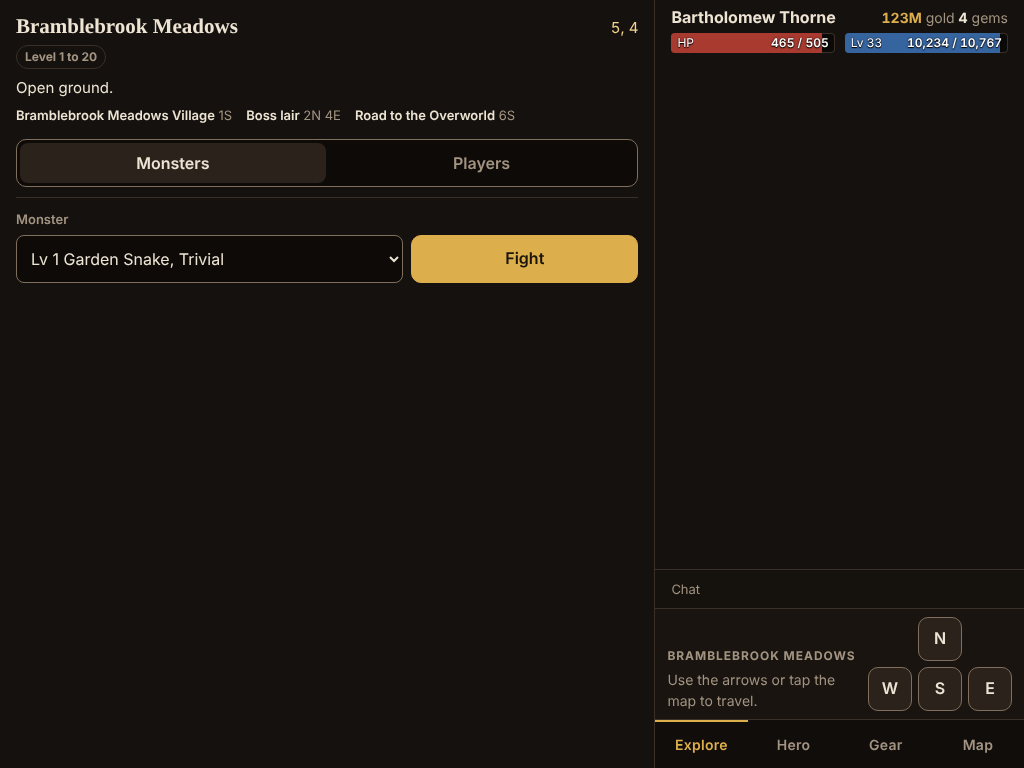
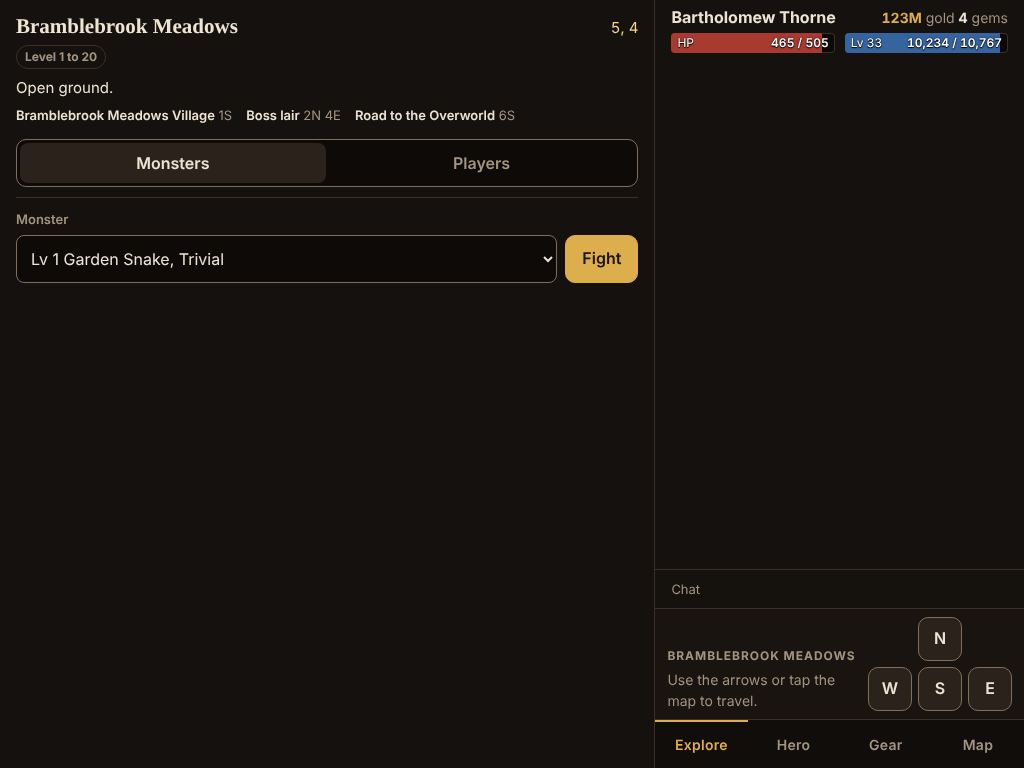
GP-1 F1: Fight beside the drop-down at every width
On Windows Chromium the wrapped picker (150px) no longer fit in view at
320x640 (CI, responsive AC-1). One row is 98px. After evidence
re-captured; report deviation 4 updated.

Claude-Session: https://claude.ai/code/session_01Wy1pzWMqgqFTgTAy5Pj7h6

Changed region(s): [[0.375, 0.2812, 0.625, 0.375]]

diff --git a/public/css/style.css b/public/css/style.css
@@ -194,13 +194,14 @@ p { margin: 0 0 8px; }
 .pick { padding: var(--space-3) 0; border-top: 1px solid var(--line); }
 .rows + .pick, .town-calm + .pick { border-top: 0; }
 .pick label { display: block; margin-bottom: 6px; font-size: var(--fs-sm); font-weight: 600; color: var(--muted); }
-/* Side by side when the drop-down has 16rem; on a phone, Fight goes under a full-width drop-down
-   so the monster's name and level show in full. */
-.pick-row { display: flex; flex-wrap: wrap; gap: var(--space-2); align-items: stretch; }
-.pick select { flex: 1 1 16rem; min-width: 0; min-height: 44px; font: inherit; font-size: 1rem; color: var(--text); background: #0d0a08;
+/* The drop-down and Fight share one row at every width, so the picker stays short enough to
+   sit in view on a 320x640 phone. A long entry is clipped in the closed drop-down at 320px; the
+   open list, and screen readers, give it in full. */
+.pick-row { display: flex; gap: var(--space-2); align-items: stretch; }
+.pick select { flex: 1 1 auto; min-width: 0; min-height: 44px; font: inherit; font-size: 1rem; color: var(--text); background: #0d0a08;
   border: 1px solid var(--line-strong); border-radius: var(--radius-sm); padding: 8px 10px; }
 .pick select:focus-visible { outline: 2px solid var(--focus); outline-offset: 2px; }
-.pick .btn { flex: 1 0 6rem; }
+.pick .btn { flex: none; padding-left: 1rem; padding-right: 1rem; }
 .town-calm { margin: 0; padding: var(--space-3) 0; border-top: 1px solid var(--line); color: var(--muted); }
 .row {
   appearance: none; display: flex; align-items: center; gap: 12px; width: 100%; min-height: 60px;

diff --git a/docs/gameplay-polish-report.md b/docs/gameplay-polish-report.md
@@ -15,7 +15,7 @@
 | **C. Only the current round** | The log shows the current round. Earlier rounds are in a collapsed native `<details>`, **Earlier rounds (N)**, which stays open or closed for the rest of the fight and starts closed in a new one. The opening lines belong to the first round. After a reload, the lines already in the log go in **Before this page loaded (N lines)**: counted as lines, never presented as rounds. If the fight is still on, the current area says "Fight in progress, turn N." The stored log is never changed. | `log-view.js`: `logGroups()`; `main.js`: `logHtml()` and `trackChanges()` |
 | **D. The outcome once** | Once a fight is over, the visible last round leaves out the reward and loss lines its card lists: the gold drop, gems, relics, masteries, XP and level for a victory; "You wake up in town, having lost …" for a defeat; the gold line for a duel. The narrative lines stay ("Victory! … has been slain!", "You have been defeated by …", and a duel's). A world boss's lines are never moved (a hunt's victory has no card, and its defeat line also says your damage still counts). A finished fight restored after a reload has no known last round, so nothing is hidden. | `log-view.js`: `cardLine()` |
 | **E. A mastery gain, once** | The gain is stored with the round it happened in, and shows under that round only. When it moves into Earlier rounds, it stays under its round. A gain on the killing blow is listed in the Victory card instead. | `trackChanges()` and `logHtml()` |
-| **F1. A native drop-down** | The tile's monsters are a labelled `<select>` ("Monster"), with options such as "Lv 9 Bog Hag, Trivial, Shadow", and a Fight button. Choosing starts nothing; only Fight does. The choice is kept across redraws, and defaults to the last monster fought on that tile. World-boss hunts stay as rows above it. The drop-down is never replaced while the monsters offered are the same (`data-keep` and `keepInPlace()` in `paint()`), so an open picker stays open and keeps focus. The arrow keys no longer move the hero while the drop-down has focus. On a phone, Fight goes under a full-width drop-down. | `main.js`: `monsterRows()`, `keepInPlace()` and the `fight` action; `style.css` |
+| **F1. A native drop-down** | The tile's monsters are a labelled `<select>` ("Monster"), with options such as "Lv 9 Bog Hag, Trivial, Shadow", and a Fight button. Choosing starts nothing; only Fight does. The choice is kept across redraws, and defaults to the last monster fought on that tile. World-boss hunts stay as rows above it. The drop-down is never replaced while the monsters offered are the same (`data-keep` and `keepInPlace()` in `paint()`), so an open picker stays open and keeps focus. The arrow keys no longer move the hero while the drop-down has focus. | `main.js`: `monsterRows()`, `keepInPlace()` and the `fight` action; `style.css` |
 | **F2. No roaming monsters in town** | `monstersHere()` offers no ordinary monsters on a zone's town tile. A lair boss on the same tile is still offered. `startBattle()` keeps its one `monstersHere()` check, so a valid lair boss in town is accepted, and gives "No roaming monsters can be fought in town. Move to another tile to hunt." only for an ordinary monster. World-boss hunts, duels and quests are unchanged. The town's screen shows the same message. | `engine/world.js` and `engine/battle.js`: shared with the server |
 
 **Not changed:**
@@ -113,7 +113,7 @@ Each test was run against the old code where the scope asks for it.
 
    At normal text sizes the layout is unchanged (two meters, two sides, side by side, at 320 and up). There is also a third fit, `.stack`, with the label above the numbers on a taller bar.
 3. **C: wording.** The scope's "Fight in progress, turn N." is used when turn N is known; at turn 0 it says "Fight in progress." The opening lines are part of Turn 1, not a separate group.
-4. **F1: the phone layout.** Fight sits under a full-width drop-down when the drop-down would have less than 16rem; at 320 the side-by-side layout cut the monster's name.
+4. **F1: the phone layout.** Fight sits beside the drop-down at every width. A first version put Fight under a full-width drop-down on phones, so names showed in full; that made the picker 150px tall, and on Windows Chromium it no longer fit in view at 320x640 (CI, responsive AC-1). With one row it is 98px tall. At 320px a long entry is clipped in the closed drop-down; the open list and screen readers give it in full.
 5. **F1: arrow keys.** The game's arrow-key movement now ignores a focused `<select>`. Found by GP-F1: choosing with the arrows also moved the hero.
 6. **GP-F2b: the update sources.** The players list refreshes only while it is the list on screen (`refreshPlayers()`), so it never redraws the drop-down. The test uses the updates that do: hunts, world events, regeneration and chat.
 7. **One commit per item wasn't kept.** A, B, C, D, E and F1 all change `main.js` in interleaved places. The commits are instead: the F2 engine rule and its tests; the client changes; the test updates; the evidence and this report.
